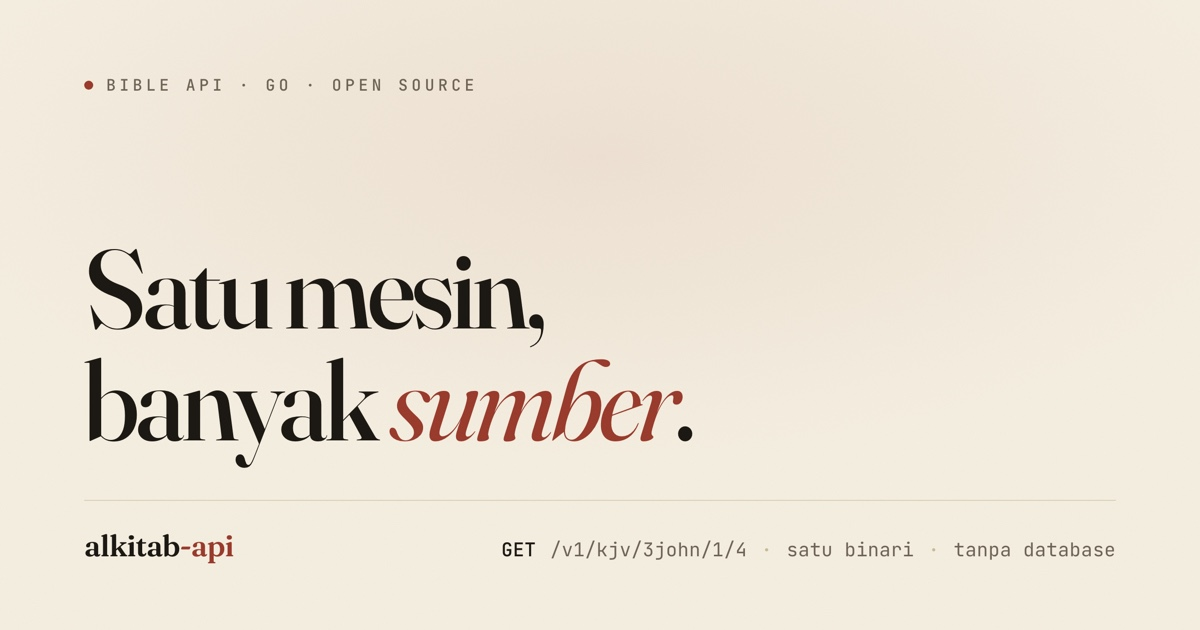
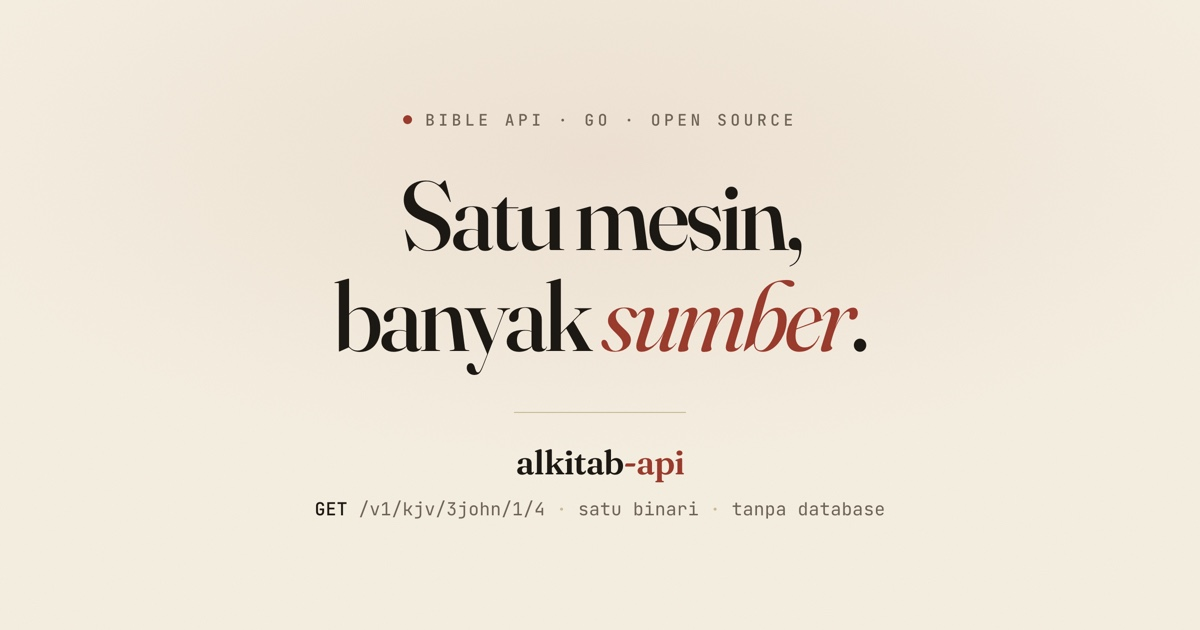
fix(site): center the og:image composition so square crops survive
The left-aligned card lost the wordmark and half the headline whenever a
platform cropped og:image to a square from the middle (630x630 out of
1200x630, i.e. x 285-915). Everything is now centered — eyebrow, headline,
a short centered hairline instead of a full-width rule, wordmark, facts —
and verified by actually cropping the render to a square and looking at
it, not by assuming.

Headline stepped 104px -> 98px for the same reason: at 104px the second
line cleared the square-crop edge by about 5px, which is surviving by
luck. 98px leaves a real margin, so a future re-render (different Fraunces
version, a font fallback) cannot silently start clipping.

The regeneration note in og-card.html now records the square-crop
constraint, so whoever edits the tagline next knows the ~600px width
budget exists and why.

diff --git a/.github/og-card.html b/.github/og-card.html
@@ -14,6 +14,11 @@
   Dirender 2x lalu diturunkan agar teks serif tetap halus; JPEG q92 dipilih
   karena grain membuat PNG ~600 KB sementara JPEG ~87 KB tanpa artifact terlihat.
   Token warna & tipografi harus tetap identik dengan site/index.html.
+
+  Komposisi sengaja terpusat, bukan rata-kiri seperti hero situs: sebagian
+  platform meng-crop og:image ke persegi dari tengah (630x630 dari 1200x630,
+  yaitu x 285-915), dan layout rata-kiri kehilangan wordmark serta separuh
+  headline di crop itu. Jaga tiap elemen di bawah ~600px lebar agar selamat.
 -->
 <!doctype html>
 <html lang="id">
@@ -61,8 +66,10 @@
   .card{
     position:relative;z-index:2;
     width:100%;height:100%;
-    padding:74px 84px 66px;
+    padding:70px 84px;
     display:flex;flex-direction:column;
+    align-items:center;justify-content:center;
+    text-align:center;
   }
   /* eyebrow — persis pola situs: dot rubric + mono uppercase tracked */
   .eyebrow{
@@ -74,21 +81,20 @@
 
   h1{
     font-family:var(--serif);font-weight:500;
-    font-size:112px;line-height:1.0;letter-spacing:-.036em;
+    font-size:98px;line-height:1.03;letter-spacing:-.036em;
     font-variation-settings:"opsz" 140;
-    margin-top:auto;
+    margin-top:34px;
   }
   h1 em{font-style:italic;font-weight:400;color:var(--accent)}
 
-  .foot{
-    margin-top:44px;padding-top:26px;border-top:1px solid var(--rule);
-    display:flex;align-items:baseline;justify-content:space-between;gap:30px;
-  }
-  .wm{font-family:var(--serif);font-weight:600;font-size:30px;letter-spacing:-.02em}
+  /* hairline pendek & terpusat — full-width rule akan terpotong pada crop persegi */
+  .rule{width:172px;height:1px;background:var(--rule-2);margin-top:46px}
+
+  .wm{font-family:var(--serif);font-weight:600;font-size:34px;letter-spacing:-.02em;margin-top:28px}
   .wm span{color:var(--accent)}
   .facts{
-    font-family:var(--mono);font-size:19px;color:var(--ink-2);letter-spacing:.01em;
-    display:flex;align-items:center;gap:14px;white-space:nowrap;
+    font-family:var(--mono);font-size:18px;color:var(--ink-2);letter-spacing:.01em;
+    margin-top:14px;white-space:nowrap;
   }
   .facts b{color:var(--ink);font-weight:500}
   .facts i{font-style:normal;color:var(--rule-2)}
@@ -98,11 +104,10 @@
   <div class="card">
     <div class="eyebrow">Bible API · Go · Open Source</div>
     <h1>Satu mesin,<br>banyak <em>sumber</em>.</h1>
-    <div class="foot">
-      <div class="wm">alkitab<span>-api</span></div>
-      <div class="facts">
-        <b>GET</b> /v1/kjv/3john/1/4 <i>·</i> satu binari <i>·</i> tanpa database
-      </div>
+    <div class="rule"></div>
+    <div class="wm">alkitab<span>-api</span></div>
+    <div class="facts">
+      <b>GET</b> /v1/kjv/3john/1/4 <i>·</i> satu binari <i>·</i> tanpa database
     </div>
   </div>
 </body>
